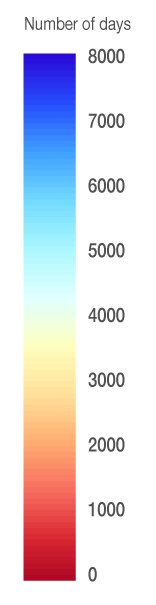
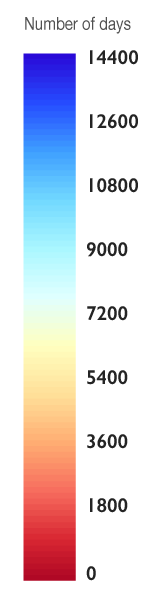
legend image replacement for cooling degree days and heating degree days minor responsive compatibility adjustment added download link for "information on interepreting data" added touchpunch for better tablet support various minor updates

diff --git a/resources/js/global_functions.js b/resources/js/global_functions.js
@@ -65,13 +65,13 @@
         var link_href = $(this).attr('href');
         smooth_scroll(link_href, $('#main-header').outerHeight(), 500);
     });
-    
+
     // WINDOW SIZE CLASSES
-    
+
     // on load
-    
+
     $(window).load(function() {
-      
+
       if (window_width() <= 600) {
         $('body').addClass('size-600');
       } else if (window_width() <= 800) {
@@ -83,13 +83,13 @@
       } else {
         $('body').addClass('size-max');
       }
-      
+
     });
-    
+
     // resize
-    
+
     $(window).resize(function() {
-      
+
       if (window_width() <= 600) {
         $('body').removeClass('size-max').removeClass('size-800').removeClass('size-1000').removeClass('size-1200');
         $('body').addClass('size-600');
@@ -106,7 +106,7 @@
         $('body').removeClass('size-600').removeClass('size-800').removeClass('size-1000').removeClass('size-1200');
         $('body').addClass('size-max');
       }
-      
+
     });
 
     // AJAX
@@ -199,9 +199,9 @@
 
       var nav_height = $('#main-header').outerHeight();
       var init_viewport_height = $('#viewport').outerHeight();
-      
+
       //console.log(init_viewport_height);
-      
+
       var default_margin = parseInt($('#viewport').css('margin-top'));
       var new_viewport_margin, new_viewport_height;
 
@@ -223,7 +223,7 @@
 
           var nav_position = parseInt($('#main-header').css('top'));
           var viewport_margin = parseInt($('#viewport').css('margin-top'));
-          
+
           if (y < last_y) {
 
             // scrolling up
@@ -254,23 +254,23 @@
             }
 
           }
-          
+
           new_viewport_height = $(window).height() - 40 - new_viewport_margin;
-          
+
           if (window_width() >= 1000) {
 
             $('#main-header').css('top', new_nav_position + 'px');
             $('#viewport').css('margin-top', new_viewport_margin + 'px');
-            
+
             $('#viewport').css('height', new_viewport_height + 'px');
-  
+
             if ($('#page-nav').hasClass('stuck')) {
               var page_nav_top = new_viewport_margin + 20;
               $('#page-nav').css('top', page_nav_top + 'px');
             }
-  
+
             last_y = y;
-            
+
           }
         } else {
           if (window_width() >= 1000) {
@@ -282,7 +282,7 @@
     }
 
     $(document).nav_scroll();
-    
+
     $(window).resize(function() {
       if ($('body').hasClass('page-type-topic') || $('body').hasClass('page-type-location') || $('body').hasClass('page-type-text')) {
         new_viewport_height = $(window).height() - 40 - parseInt($('#viewport').css('margin-top'));
@@ -396,12 +396,12 @@
         options: 'open'
       });
     });
-    
-    // subnav trigger 
-    
+
+    // subnav trigger
+
     $('#subnav-trigger').click(function(e) {
       e.preventDefault();
-      
+
       if($('body').hasClass('subnav-open')) {
         $('body').removeClass('subnav-open');
         $(this).siblings('ul').fadeOut();
@@ -409,14 +409,14 @@
         $('body').addClass('subnav-open');
         $(this).siblings('ul').fadeIn();
       }
-      
+
     });
-    
+
     // left header trigger
-    
+
     $('#left-header-trigger').click(function(e) {
       e.preventDefault();
-      
+
       if ($('body').hasClass('left-header-closed')) {
         $('body').removeClass('left-header-closed');
         $('#left-header-trigger').removeClass('icon-variables').addClass('icon-close');
@@ -521,7 +521,9 @@
     //
     // --------
 
-    if ($('#page-nav').length) {
+
+      // removed sticky nav
+    /*if ($('#page-nav').length) {
         var sticky = new Waypoint.Sticky({
             element: $('#page-nav')[0],
             context: $("#viewport")
@@ -533,7 +535,7 @@
             var link_href = $(this).attr('href');
             smooth_scroll(link_href, ($('#main-header').outerHeight() + $('#page-nav').outerHeight()), 500);
         });
-    }
+    }*/
 
     var locations = [
       'Seattle'
@@ -579,15 +581,15 @@
         $('.data-accordion-content').each(function () {
             var content_div = $(this);
             var accordion = content_div.parents('.data-accordion');
-            
+
             var width_percent = 0.9;
-            
+
 /*
             if (window_width() <= 800) {
               width_percent = 0.5;
             }
 */
-            
+
             var accordion_width = accordion.width() * width_percent;
 
             content_div.css('width', accordion_width);
@@ -873,6 +875,9 @@
         equalize_left_header();
         accordion_width();
     });
+
+
+    $('.ui-slider-handle').draggable();
 
   });
 }(jQuery));

diff --git a/resources/js/variables.js b/resources/js/variables.js
@@ -547,7 +547,7 @@ Variables.prototype.countySelected = function (feature, event) {
             '<span class="source" id="chart-name">' + $('.fs-dropdown-selected').html() + '</span>' +
             '</span>' +
             '<div class="data-accordion-actions">' +
-            '<a href="#" class="how-to-read"><span class="icon icon-help"></span>How to read this</a>' +
+            '<a href="#" class="how-to-read-county"><span class="icon icon-help"></span>How to read this</a>' +
             '<a href="#" class="download-image"><span class="icon icon-download-image"></span>Image</a>' +
             '<a href="#" class="download-data"><span class="icon icon-download-chart"></span>Data</a>' +
             '</div>' +
@@ -582,7 +582,7 @@ Variables.prototype.countySelected = function (feature, event) {
             '</div>' +
             '<div class="range" id="variable-slider">' +
             '<div id="slider-range"></div>' +
-            '<div class="ui-slider-label range-label min" id="range-low">2010</div>' +
+            '<div class="ui-slider-label range-label min" id="range-low">1950</div>' +
             '<div class="ui-slider-label range-label max" id="range-high">2100</div>' +
             '</div>';
         this.popup.show(event.mapBrowserEvent.coordinate, html);
@@ -688,7 +688,9 @@ Variables.prototype.countySelected = function (feature, event) {
           if (dataurls.proj_mod) {
               $ul.append($("<li><a href='" + dataurls.proj_mod + "'>Projected Modeled Data</a></li>"));
           }
-          $('#download-panel').removeClass("hidden");
+            $ul.append($("<li><a href='./downloads/Key-to-Climate-Explorer-Download-Filenames-and-Column-Headings.xlsx'>Information for Interpreting Data</a></li>"));
+
+            $('#download-panel').removeClass("hidden");
           $('#download-panel').show();
 
         });

diff --git a/resources/css/mods.css b/resources/css/mods.css
@@ -378,3 +378,88 @@ input.location-mapper:focus:-ms-input-placeholder {
   max-height: 910px;
   overflow: inherit;
 }
+
+
+
+.download-image {
+  font-size:1.5em;
+}
+
+.download-data {
+  font-size:1.5em;
+}
+
+
+.download-image {
+  font-size:1.5em !important;
+}
+
+.download-data {
+  font-size:1.5em !important;
+}
+
+
+.how-to-read {
+  float: left;
+  position: absolute;
+  left: 102px;
+  display: block;
+  z-index: 10;
+  top: 102px;
+}
+
+.how-to-read-county {
+  float: left;
+  position: absolute;
+  left: 71px;
+  display: block;
+  z-index: 10;
+  top: 79px;
+}
+
+/* iPad Air LandScape */
+@media only screen and (device-width: 768px) {
+
+  .location-data-section .data-accordion .data-accordion-tab.data-map .location-map-legend-container {
+    width: 80px;
+  }
+
+  html {
+    font-size: 60%;
+  }
+  #variable-counties-toggle > label > span {
+    font-size: 60%;f
+  }
+  #variable-time-slider > span > span.icon.icon-arrow-left-right::before {
+    font-size: 2em;
+  }
+  #temperature-map-time-slider > span > span.icon.icon-arrow-left-right {
+    font-size: 1.8em;
+  }
+  .how-to-read {
+    float: right !important;
+    position: absolute !important;
+    top: 25px !important;
+    left: auto !important;
+    right: 230px !important;
+    display: block !important;
+    z-index: 10 !important;
+  }
+
+  .ui-slider-handle {
+    left: 3px;
+    width: 16px;
+    height: 16px;
+    margin: 0 0 -8px -8px;
+    background: #f5442d;
+    -moz-border-radius: 50%;
+    -webkit-border-radius: 50%;
+    border-radius: 50%;
+    outline: none;
+    z-index: 10000000 !important;
+    cursor: pointer;
+  }
+
+}
+
+

diff --git a/resources/js/touchpunch.js b/resources/js/touchpunch.js
@@ -1,0 +1,11 @@
+/*!
+ * jQuery UI Touch Punch 0.2.3
+ *
+ * Copyright 2011–2014, Dave Furfero
+ * Dual licensed under the MIT or GPL Version 2 licenses.
+ *
+ * Depends:
+ *  jquery.ui.widget.js
+ *  jquery.ui.mouse.js
+ */
+!function(a){function f(a,b){if(!(a.originalEvent.touches.length>1)){a.preventDefault();var c=a.originalEvent.changedTouches[0],d=document.createEvent("MouseEvents");d.initMouseEvent(b,!0,!0,window,1,c.screenX,c.screenY,c.clientX,c.clientY,!1,!1,!1,!1,0,null),a.target.dispatchEvent(d)}}if(a.support.touch="ontouchend"in document,a.support.touch){var e,b=a.ui.mouse.prototype,c=b._mouseInit,d=b._mouseDestroy;b._touchStart=function(a){var b=this;!e&&b._mouseCapture(a.originalEvent.changedTouches[0])&&(e=!0,b._touchMoved=!1,f(a,"mouseover"),f(a,"mousemove"),f(a,"mousedown"))},b._touchMove=function(a){e&&(this._touchMoved=!0,f(a,"mousemove"))},b._touchEnd=function(a){e&&(f(a,"mouseup"),f(a,"mouseout"),this._touchMoved||f(a,"click"),e=!1)},b._mouseInit=function(){var b=this;b.element.bind({touchstart:a.proxy(b,"_touchStart"),touchmove:a.proxy(b,"_touchMove"),touchend:a.proxy(b,"_touchEnd")}),c.call(b)},b._mouseDestroy=function(){var b=this;b.element.unbind({touchstart:a.proxy(b,"_touchStart"),touchmove:a.proxy(b,"_touchMove"),touchend:a.proxy(b,"_touchEnd")}),d.call(b)}}}(jQuery);

diff --git a/resources/js/cwg/cwg.js b/resources/js/cwg/cwg.js
@@ -468,8 +468,10 @@ $(document).ready(function() {
       if (dataurls.proj_mod) {
           $ul.append($("<li><a href='"+dataurls.proj_mod+"' class='button display-block border-white hover-bg-white'><span class='icon icon-arrow-down'></span>Projected Modeled Data</a></li>"));
       }
+        $ul.append($("<li><a href='./downloads/Key-to-Climate-Explorer-Download-Filenames-and-Column-Headings.xlsx' class='button display-block border-white hover-bg-white'><span class='icon icon-arrow-down'></span>Information for Interpreting Data</a></li>"));
 
-      $('#download-panel').fadeIn(250);
+
+        $('#download-panel').fadeIn(250);
 
     });
 

diff --git a/resources/js/formmapper.js b/resources/js/formmapper.js
@@ -26,7 +26,7 @@
     },
 
     maxZoom: 16, //The maximum zoom level to zoom in to after a geocoding response. Default: 16
-    types: ['geocode'],  //An array containing one or more of the supported types for the places request. Default: geocode
+    types: ['(regions)'],  //An array containing one or more of the supported types for the places request. Default: geocode
 	//See the full list of options at http://code.google.com/apis/maps/documentation/javascript/places.html#place_search_requests
     blur: false, //triggers on blur event. Default: false
 	dragged: false //default state of marker to determine if map should zoom in steps

diff --git a/resources/js/main.js b/resources/js/main.js
@@ -1,9 +1,9 @@
 var App = function (data_base_url) {
   this.data_base_url = data_base_url;
 
-  if(top != self) {
-    window.open(location.href, '_top');
-  }
+  //if(top != self) {
+  //  window.open(location.href, '_top');
+  // }
 
   this.frequency = {
       'temperature-chart': 'annual',

diff --git a/resources/css/screen.css b/resources/css/screen.css
@@ -8342,7 +8342,7 @@ https://raw.github.com/shagstrom/split-pane/master/LICENSE
     z-index: 3;
   }
 }
-@media screen and (max-width: 800px) {
+@media screen and (max-width: 767px) {
   /* line 800, ../scss/_media.scss */
   body {
     overflow: hidden;

diff --git a/resources/scss/_media.scss b/resources/scss/_media.scss
@@ -795,7 +795,7 @@
   }
 }
 
-@media screen and (max-width: 800px) {
+@media screen and (max-width: 765px) {
   
   body {
     overflow: hidden;

diff --git a/case.php b/case.php
@@ -100,6 +100,7 @@ if ($group != 'all' && $group != 'group1' && $group != 'group2' && $group != 'gr
 
     <script type="text/javascript" src="<?php $current_domain ?>resources/js/jquery.min.js"></script>
       <script type="text/javascript" src="<?php $current_domain ?>resources/js/jquery-ui.min.js"></script>
+      <script type="text/javascript" src="<?php $current_domain ?>resources/js/touchpunch.js"></script>
 
     <?php
 

diff --git a/template/footer.php b/template/footer.php
@@ -4,6 +4,7 @@
 
 <!-- START:JS_LOADER -->
 
+
 <script type="text/javascript" src="<?php $current_domain ?>resources/js/lodash.js"></script>
 <script type="text/javascript" src="<?php $current_domain ?>resources/js/proj4.js"></script>
 
